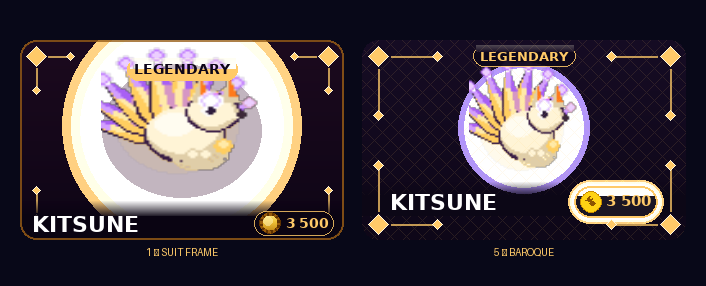
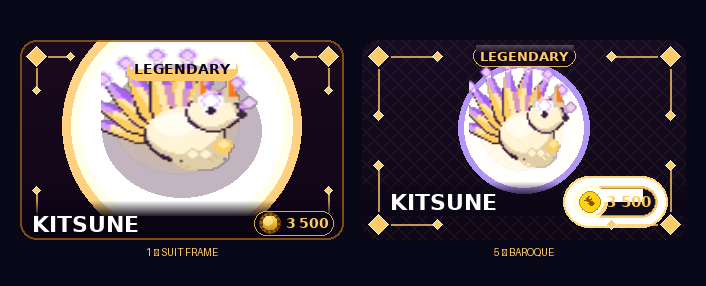
baroque v5 r2: premium price chip redesign
Full redesign of the price chip for casino-grade quality:
- 5-layer BLEND_ADD outer glow at alpha 11-55 (was 3-layer at near-zero alpha)
- Gradient body (dark gradient clipped to pill via BLEND_RGBA_MIN) replacing flat fill
- Top-half inner sheen with power-curve falloff, peak 90 (was top-third, linear, peak 55)
- 2px GEM outer border + 1px DEEP inner bevel for dimensional depth
- Soft GEM halo (soft_glow r+8, peak 60, 5 layers) around the game coin
- Text y centered mathematically in chip height
- GAP_CT=6 explicit gap between coin and numeral

Claude-Session: https://claude.ai/code/session_01PHa7j1dH3g5BMmmcCU5mZW

Changed region(s): [[0.779, 0.6154, 0.966, 0.8112]]

diff --git a/tools/render_baroque_v5_r2.py b/tools/render_baroque_v5_r2.py
@@ -122,27 +122,43 @@ card.blit(name_s, (FLOU_INSET + LARGE_PIP_R + 2, ty))
 
 COIN_R   = 10
 CHIP_PAD = 7
-chip_w   = COIN_R * 2 + 5 + price_s.get_width() + CHIP_PAD * 2
-chip_h   = price_s.get_height() + CHIP_PAD * 2
-chip_x   = W - FLOU_INSET - LARGE_PIP_R - 2 - chip_w
-chip_y   = ty + (name_s.get_height() - chip_h) // 2
-# Outer glow around chip
-for gi in range(3, 0, -1):
+GAP_CT   = 6
+chip_w = CHIP_PAD + COIN_R * 2 + GAP_CT + price_s.get_width() + CHIP_PAD
+chip_h = price_s.get_height() + CHIP_PAD * 2
+chip_x = W - FLOU_INSET - LARGE_PIP_R - 2 - chip_w
+chip_y = ty + (name_s.get_height() - chip_h) // 2
+# Outer glow — 5 layers BLEND_ADD, alpha 11–55 so gold visibly bleeds out
+for gi in range(5, 0, -1):
     gs = pygame.Surface((chip_w + gi * 4, chip_h + gi * 4), pygame.SRCALPHA)
-    ga = 30 - gi * 8
+    ga = int(55 * (1 - (gi - 1) / 5))
     pygame.draw.rect(gs, (*GEM, ga), (0, 0, chip_w + gi * 4, chip_h + gi * 4),
                      border_radius=(chip_h + gi * 4) // 2)
-    card.blit(gs, (chip_x - gi * 2, chip_y - gi * 2), special_flags=pygame.BLEND_RGBA_ADD)
+    card.blit(gs, (chip_x - gi * 2, chip_y - gi * 2), special_flags=pygame.BLEND_ADD)
+# Chip body — dark gradient, clipped to pill shape
 chip_surf = pygame.Surface((chip_w, chip_h), pygame.SRCALPHA)
-pygame.draw.rect(chip_surf, (12, 7, 22, 240), (0, 0, chip_w, chip_h), border_radius=chip_h // 2)
-# Top inner sheen
-for yy in range(chip_h // 3):
-    a = int((1 - yy / (chip_h // 3)) * 55)
-    pygame.draw.line(chip_surf, (255, 252, 220, a), (3, yy), (chip_w - 3, yy))
-pygame.draw.rect(chip_surf, (*GEM, 255), (0, 0, chip_w, chip_h), 2, border_radius=chip_h // 2)
+for yy in range(chip_h):
+    t = yy / max(1, chip_h - 1)
+    chip_surf.fill((int(16*(1-t)+8*t), int(9*(1-t)+5*t), int(30*(1-t)+18*t), 248),
+                   (0, yy, chip_w, 1))
+pmask = pygame.Surface((chip_w, chip_h), pygame.SRCALPHA)
+pygame.draw.rect(pmask, (255, 255, 255, 255), (0, 0, chip_w, chip_h), border_radius=chip_h // 2)
+chip_surf.blit(pmask, (0, 0), special_flags=pygame.BLEND_RGBA_MIN)
+# Top inner sheen — top-half, power-curve, peak 90
+for yy in range(chip_h // 2):
+    a = int((1 - yy / (chip_h // 2)) ** 1.5 * 90)
+    pygame.draw.line(chip_surf, (255, 252, 220, a), (chip_h // 2, yy), (chip_w - chip_h // 2, yy))
+# 2px GEM outer border + 1px DEEP inner bevel
+pygame.draw.rect(chip_surf, (*GEM, 255),  (0, 0, chip_w, chip_h),   2, border_radius=chip_h // 2)
+pygame.draw.rect(chip_surf, (*DEEP, 180), (2, 2, chip_w-4, chip_h-4), 1,
+                 border_radius=chip_h // 2 - 1)
 card.blit(chip_surf, (chip_x, chip_y))
-real_coin_icon(card, chip_x + CHIP_PAD + COIN_R, chip_y + chip_h // 2, COIN_R)
-card.blit(price_s, (chip_x + CHIP_PAD + COIN_R * 2 + 5, chip_y + CHIP_PAD - 1))
+# Coin — soft gold halo then exact game coin
+coin_cx = chip_x + CHIP_PAD + COIN_R
+coin_cy = chip_y + chip_h // 2
+soft_glow(card, coin_cx, coin_cy, COIN_R + 8, GEM, peak_alpha=60, layers=5)
+real_coin_icon(card, coin_cx, coin_cy, COIN_R)
+text_y = chip_y + (chip_h - price_s.get_height()) // 2
+card.blit(price_s, (chip_x + CHIP_PAD + COIN_R * 2 + GAP_CT, text_y))
 
 # Corner flourishes drawn last so they sit on top of the nameplate
 card.blit(fl_s, (0, 0))
